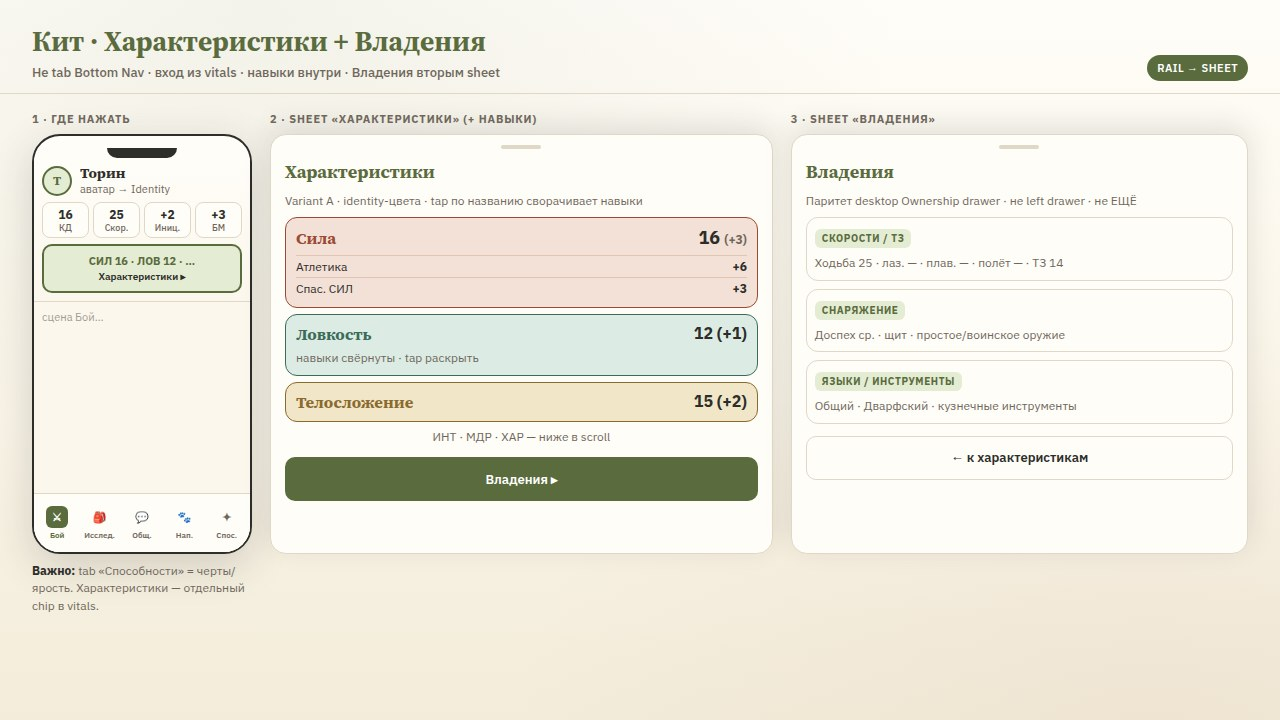
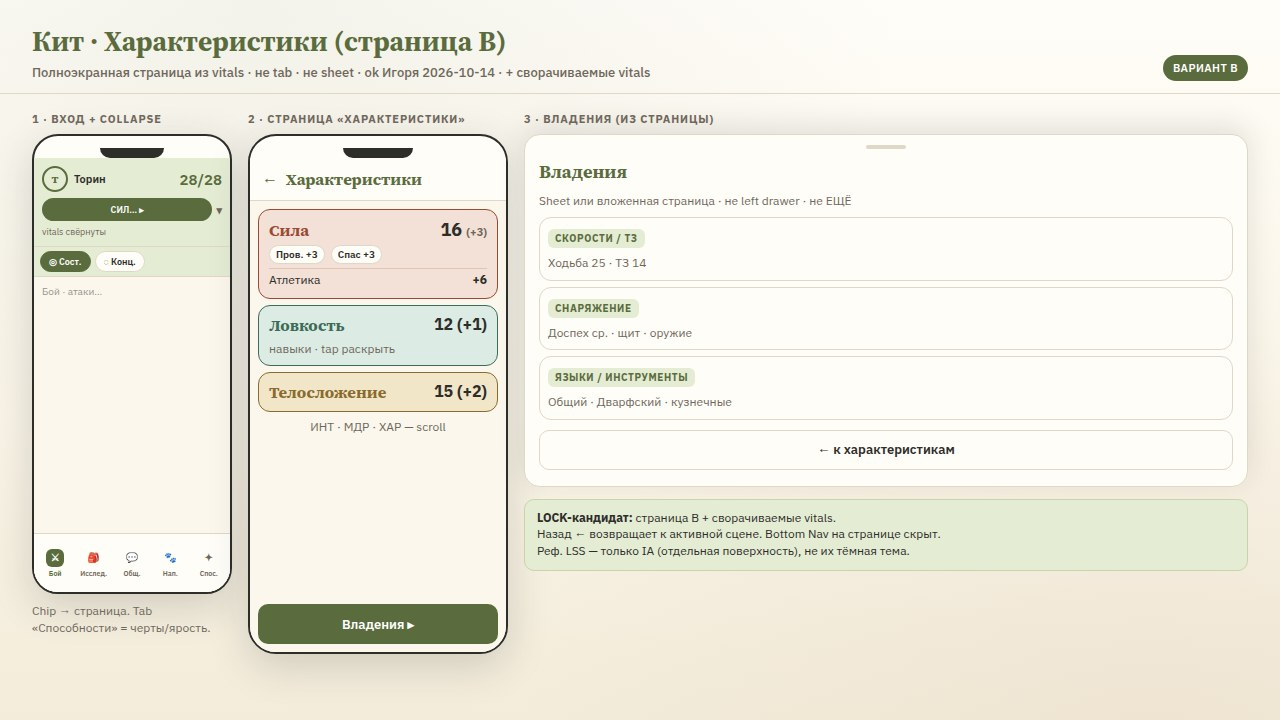
docs(mobile-kit): LOCK path B — abilities page + collapsible vitals
Characteristics open as a full-screen page from the vitals chip (not a
sheet/tab). Vitals support Свернуть ▴ / expand like LSS IA, Folia chrome.

diff --git a/docs/ui-kit-mobile/boards/_render/boards.html b/docs/ui-kit-mobile/boards/_render/boards.html
@@ -305,8 +305,8 @@
       <div class="col" style="flex:1.2">
         <p class="sec-label">D · Shell телефона (одна сцена)</p>
         <div class="callout" style="margin-bottom:12px">
-          <strong>Слои:</strong> MobileVitalsBar → HotStrip → Scene (одна) → Bottom Scene Nav.<br/>
-          Табы = desktop после drop ЕЩЁ: Бой · Исследование · Общение · Напарники · Способности. Сцены «ЕЩЁ» нет.
+          <strong>Слои:</strong> MobileVitalsBar (сворачивается) → HotStrip → Scene (одна) → Bottom Scene Nav.<br/>
+          Табы = desktop после drop ЕЩЁ. Характеристики = <strong>страница B</strong> из vitals. Сцены «ЕЩЁ» нет.
         </div>
         <div class="grid-2">
           <div class="card">
@@ -371,6 +371,7 @@
           <div style="margin-top:6px;display:flex;gap:4px">
             <span class="pill on" style="flex:1;justify-content:center;padding:5px 6px;font-size:10px;border-radius:8px">СИЛ… · Характеристики</span>
           </div>
+          <div style="text-align:center;font-size:10px;font-weight:700;color:var(--muted);margin-top:4px;letter-spacing:.04em">▴ Свернуть</div>
         </div>
         <div class="hot">
           <chip class="on">◎ Состояния</chip>
@@ -383,12 +384,11 @@
             <button class="on">Атаки</button>
             <button>Заклинания</button>
           </div>
-          <div class="att" style="min-height:42px;padding:6px 8px"><div><div class="name">Топор дварфа</div><div class="meta">1к8+3 руб.</div></div><div class="hit">+5</div></div>
-          <div class="att" style="min-height:42px;padding:6px 8px"><div><div class="name">Молот</div><div class="meta">1к10+3 дроб.</div></div><div class="hit">+5</div></div>
+          <div class="att" style="min-height:40px;padding:5px 8px"><div><div class="name">Топор дварфа</div><div class="meta">1к8+3 руб.</div></div><div class="hit">+5</div></div>
           <div style="font-size:10px;font-weight:700;letter-spacing:.06em;text-transform:uppercase;color:var(--muted);margin:2px 2px 0;display:flex;justify-content:space-between;flex-shrink:0">
             <span>Расходники</span><span style="font-weight:600;text-transform:none;letter-spacing:0">избр. 1/3</span>
           </div>
-          <div class="att" style="min-height:42px;padding:6px 8px;flex-shrink:0;border-color:var(--accent)"><div><div class="name">★ Зелье лечения</div><div class="meta">потратить · x2</div></div><div class="hit" style="background:var(--accent-soft);color:var(--ink)">−1</div></div>
+          <div class="att" style="min-height:40px;padding:5px 8px;flex-shrink:0;border-color:var(--accent)"><div><div class="name">★ Зелье лечения</div><div class="meta">потратить · x2</div></div><div class="hit" style="background:var(--accent-soft);color:var(--ink)">−1</div></div>
         </div>
         <div class="bnav">
           <div class="tab on"><div class="ico">⚔</div>Бой</div>
@@ -406,19 +406,21 @@
           <li style="margin-bottom:8px"><strong>Одна сцена</strong> — никогда не стек всех панелей Wave A.</li>
           <li style="margin-bottom:8px"><strong>Bottom Nav</strong> — имена как desktop ModeTab; short label под иконкой ок.</li>
           <li style="margin-bottom:8px"><strong>HP</strong> — крупнейший tap; pad = bottom sheet.</li>
-          <li style="margin-bottom:8px"><strong>Монеты / Отдых</strong> — в vitals (паритет header).</li>
-          <li style="margin-bottom:8px"><strong>HotStrip</strong> — состояния · концентрация · пипы ресурсов.</li>
-          <li style="margin-bottom:8px"><strong>Default tab</strong> при открытии листа — Бой (time-to-attack).</li>
-          <li style="margin-bottom:8px"><strong>Характеристики</strong> — chip в vitals → sheet (не tab «Способности»).</li>
+          <li style="margin-bottom:8px"><strong>Свернуть vitals</strong> — ▴ → compact (who · HP · chip · ▾); больше места сцене.</li>
+          <li style="margin-bottom:8px"><strong>Характеристики</strong> — chip → <strong>полноэкранная страница</strong> (B), не sheet / не tab.</li>
+          <li style="margin-bottom:8px"><strong>HotStrip</strong> — состояния · концентрация · пипы; остаётся при collapse.</li>
           <li><strong>Расходники</strong> — блок под атаками в Бою (★ из Исследования, до 3).</li>
         </ol>
       </div>
+      <div class="callout" style="margin-bottom:12px">
+        <strong>Collapsed strip:</strong> Т · Торин · <b>28/28</b> · СИЛ… · ▾ — pads HP/монеты/отдых всё ещё доступны.
+      </div>
       <div class="callout">
-        <strong>Не делать:</strong> left drawer владений · center-modal pads · возврат select «Панель» · путать tab «Способности» с характеристиками · прятать расходники боя.
+        <strong>Не делать:</strong> left drawer владений · путать tab «Способности» с характеристиками · прятать расходники · 6-й tab ЕЩЁ.
       </div>
       <div style="margin-top:14px" class="card">
         <p class="sec-label">Z-слои</p>
-        <p class="note" style="margin:0">vitals sticky (40) → scene scroll → nav (50) → sheet (60)</p>
+        <p class="note" style="margin:0">vitals sticky (40) → scene scroll → nav (50) → sheet (60) · страница Характеристики поверх сцены</p>
       </div>
     </div>
   </div>
@@ -455,23 +457,34 @@
             <tr style="border-bottom:1px solid var(--line)"><td style="padding:6px 4px;font-weight:600">Отдых</td><td style="padding:6px 4px">→ Rest sheet</td></tr>
             <tr style="border-bottom:1px solid var(--line)"><td style="padding:6px 4px;font-weight:600">Death</td><td style="padding:6px 4px">только HP≤0 · opaque + череп</td></tr>
             <tr style="border-bottom:1px solid var(--line)"><td style="padding:6px 4px;font-weight:600">XP</td><td style="padding:6px 4px">полоска или ⋯ → sheet</td></tr>
-            <tr><td style="padding:6px 4px;font-weight:600">Характеристики</td><td style="padding:6px 4px">chip «СИЛ… · Характеристики» → sheet + навыки; оттуда «Владения ▸»</td></tr>
+            <tr style="border-bottom:1px solid var(--line)"><td style="padding:6px 4px;font-weight:600">Характеристики</td><td style="padding:6px 4px">chip → <strong>страница</strong> (вариант B) + навыки → Владения</td></tr>
+            <tr><td style="padding:6px 4px;font-weight:600">Свернуть</td><td style="padding:6px 4px">▴ → compact strip; ▾ развернуть</td></tr>
           </table>
         </div>
       </div>
       <div class="col">
-        <p class="sec-label">C · HotStrip</p>
+        <p class="sec-label">C · HotStrip + collapse</p>
         <div class="card" style="margin-bottom:12px">
           <div class="hot" style="border:none;border-radius:8px;margin:-4px">
             <chip class="on">◎ Состояния</chip>
             <chip>◌ Концентрация</chip>
             <chip>★ Ресурс</chip>
           </div>
-          <p class="note" style="margin:10px 0 0">Отдых <strong>не</strong> дублировать здесь — он в vitals (как header desktop после Wave A).</p>
+          <p class="note" style="margin:10px 0 0">HotStrip <strong>остаётся</strong> при свёрнутых vitals. Отдых не дублировать здесь.</p>
+        </div>
+        <div class="card" style="margin-bottom:12px;padding:10px;background:var(--accent-soft);border-color:#c9d5a8">
+          <div class="tag">Collapsed</div>
+          <div style="display:flex;align-items:center;gap:8px;font-size:12px;font-weight:600">
+            <span class="avatar" style="width:28px;height:28px;font-size:11px">Т</span>
+            <span>Торин</span>
+            <span style="color:var(--accent);font-size:16px">28/28</span>
+            <span class="pill on" style="padding:3px 8px;font-size:10px">СИЛ…</span>
+            <span style="margin-left:auto;color:var(--muted)">▾</span>
+          </div>
         </div>
         <p class="sec-label">D · Бывшее ЕЩЁ — разнесено</p>
         <div class="card">
-          <p class="note" style="margin:0">Состояния → HotStrip · Identity → аватар · Attunement → Исследование · Характеристики/Владения → sheet из vitals. <strong>Сцены ЕЩЁ нет.</strong></p>
+          <p class="note" style="margin:0">Состояния → HotStrip · Identity → аватар · Attunement → Исследование · Характеристики → <strong>страница</strong> из vitals. <strong>Сцены ЕЩЁ нет.</strong></p>
         </div>
       </div>
     </div>
@@ -702,105 +715,114 @@
   </div>
 </section>
 
-<!-- ========== ABILITIES + OWNERSHIP ========== -->
+<!-- ========== ABILITIES + OWNERSHIP (вариант B) ========== -->
 <section class="board" id="abilities" data-file="dvarf-mobile-kit-abilities.jpg">
   <div class="hdr">
     <div>
-      <h1>Кит · Характеристики + Владения</h1>
-      <p class="sub">Не tab Bottom Nav · вход из vitals · навыки внутри · Владения вторым sheet</p>
+      <h1>Кит · Характеристики (страница B)</h1>
+      <p class="sub">Полноэкранная страница из vitals · не tab · не sheet · ok Игоря 2026-10-14 · + сворачиваемые vitals</p>
     </div>
-    <div class="badge">RAIL → SHEET</div>
+    <div class="badge">ВАРИАНТ B</div>
   </div>
-  <div class="body" style="display:flex;gap:18px;align-items:flex-start">
-    <!-- Step 1: entry -->
-    <div style="width:220px;flex-shrink:0">
-      <p class="sec-label">1 · Где нажать</p>
-      <div class="phone" style="width:220px;height:420px;border-radius:28px">
-        <div class="phone-notch"><span style="width:70px"></span></div>
+  <div class="body" style="display:flex;gap:16px;align-items:flex-start">
+    <!-- Entry + collapsed -->
+    <div style="width:200px;flex-shrink:0">
+      <p class="sec-label">1 · Вход + collapse</p>
+      <div class="phone" style="width:200px;height:460px;border-radius:26px">
+        <div class="phone-notch"><span style="width:64px"></span></div>
         <div class="phone-body">
-          <div class="vitals" style="padding:8px">
-            <div class="who">
-              <div class="avatar" style="width:30px;height:30px;font-size:12px">Т</div>
-              <div>
-                <div class="who-name" style="font-size:14px">Торин</div>
-                <div class="who-meta">аватар → Identity</div>
+          <div style="padding:8px;border-bottom:1px solid var(--line);background:var(--accent-soft)">
+            <div style="display:flex;align-items:center;gap:6px;font-size:11px;font-weight:600">
+              <span class="avatar" style="width:26px;height:26px;font-size:10px">Т</span>
+              <span>Торин</span>
+              <span style="color:var(--accent);font-size:15px;margin-left:auto">28/28</span>
+            </div>
+            <div style="display:flex;gap:4px;margin-top:6px;align-items:center">
+              <span class="pill on" style="flex:1;justify-content:center;padding:4px;font-size:9px;border:2px solid var(--accent)">СИЛ… ▸</span>
+              <span style="font-size:11px;font-weight:700;color:var(--muted)">▾</span>
+            </div>
+            <div class="note" style="margin:4px 0 0;font-size:9px">vitals свёрнуты</div>
+          </div>
+          <div class="hot" style="padding:4px 6px">
+            <chip class="on" style="font-size:9px">◎ Сост.</chip>
+            <chip style="font-size:9px">◌ Конц.</chip>
+          </div>
+          <div class="scene" style="opacity:.5;font-size:10px">Бой · атаки…</div>
+          <div class="bnav">
+            <div class="tab on" style="font-size:7px"><div class="ico" style="font-size:10px;width:18px;height:18px">⚔</div>Бой</div>
+            <div class="tab" style="font-size:7px"><div class="ico" style="font-size:10px;width:18px;height:18px">🎒</div>Исслед.</div>
+            <div class="tab" style="font-size:7px"><div class="ico" style="font-size:10px;width:18px;height:18px">💬</div>Общ.</div>
+            <div class="tab" style="font-size:7px"><div class="ico" style="font-size:10px;width:18px;height:18px">🐾</div>Нап.</div>
+            <div class="tab" style="font-size:7px"><div class="ico" style="font-size:10px;width:18px;height:18px">✦</div>Спос.</div>
+          </div>
+        </div>
+      </div>
+      <p class="note" style="margin:8px 0 0">Chip → страница. Tab «Способности» = черты/ярость.</p>
+    </div>
+
+    <!-- Full page abilities -->
+    <div style="width:260px;flex-shrink:0">
+      <p class="sec-label">2 · Страница «Характеристики»</p>
+      <div class="phone" style="width:260px;height:520px;border-radius:28px">
+        <div class="phone-notch"><span style="width:70px"></span></div>
+        <div class="phone-body" style="background:var(--panel)">
+          <div style="padding:10px 12px;border-bottom:1px solid var(--line);background:var(--card);display:flex;align-items:center;gap:8px">
+            <span style="font-weight:700;color:var(--accent)">←</span>
+            <div style="font-family:var(--font-display);font-weight:700;color:var(--accent);font-size:16px">Характеристики</div>
+          </div>
+          <div style="flex:1;overflow:hidden;padding:8px;display:flex;flex-direction:column;gap:6px">
+            <div class="card" style="padding:8px 10px;border-color:#9a4a32;background:#f3e0d6">
+              <div style="display:flex;justify-content:space-between;align-items:baseline">
+                <strong style="font-family:var(--font-display);color:#9a4a32">Сила</strong>
+                <span style="font-weight:700;font-size:18px">16 <span style="font-size:11px;color:var(--muted)">(+3)</span></span>
+              </div>
+              <div style="margin-top:4px;font-size:11px;display:flex;gap:6px">
+                <span class="pill" style="padding:2px 6px;font-size:10px">Пров. +3</span>
+                <span class="pill" style="padding:2px 6px;font-size:10px">Спас +3</span>
+              </div>
+              <div style="margin-top:4px;font-size:12px">
+                <div style="display:flex;justify-content:space-between;padding:3px 0;border-top:1px solid #e0c4b4"><span>Атлетика</span><strong>+6</strong></div>
               </div>
             </div>
-            <div class="vital-row">
-              <div class="vital"><div class="v" style="font-size:12px">16</div><div class="l">КД</div></div>
-              <div class="vital"><div class="v" style="font-size:12px">25</div><div class="l">Скор.</div></div>
-              <div class="vital"><div class="v" style="font-size:12px">+2</div><div class="l">Иниц.</div></div>
-              <div class="vital"><div class="v" style="font-size:12px">+3</div><div class="l">БМ</div></div>
+            <div class="card" style="padding:8px 10px;border-color:#3d6b5a;background:#dcece4">
+              <div style="display:flex;justify-content:space-between"><strong style="font-family:var(--font-display);color:#3d6b5a">Ловкость</strong><span style="font-weight:700">12 (+1)</span></div>
+              <div class="note" style="margin:4px 0 0">навыки · tap раскрыть</div>
             </div>
-            <div style="margin-top:4px;border:2px solid var(--accent);border-radius:10px;padding:8px;background:var(--accent-soft);text-align:center">
-              <div style="font-size:11px;font-weight:700;color:var(--accent)">СИЛ 16 · ЛОВ 12 · …</div>
-              <div style="font-size:10px;font-weight:600;margin-top:2px">Характеристики ▸</div>
+            <div class="card" style="padding:8px 10px;border-color:#8a6a2f;background:#f1e6c8">
+              <div style="display:flex;justify-content:space-between"><strong style="font-family:var(--font-display);color:#8a6a2f">Телосложение</strong><span style="font-weight:700">15 (+2)</span></div>
             </div>
-          </div>
-          <div class="scene" style="opacity:.45;font-size:11px;padding:8px">сцена Бой…</div>
-          <div class="bnav">
-            <div class="tab on"><div class="ico" style="font-size:11px">⚔</div>Бой</div>
-            <div class="tab"><div class="ico" style="font-size:11px">🎒</div>Исслед.</div>
-            <div class="tab"><div class="ico" style="font-size:11px">💬</div>Общ.</div>
-            <div class="tab"><div class="ico" style="font-size:11px">🐾</div>Нап.</div>
-            <div class="tab"><div class="ico" style="font-size:11px">✦</div>Спос.</div>
+            <div class="note" style="text-align:center;margin:0">ИНТ · МДР · ХАР — scroll</div>
+            <span class="btn btn-primary" style="width:100%;min-height:40px;margin-top:auto">Владения ▸</span>
           </div>
         </div>
       </div>
-      <p class="note" style="margin:8px 0 0"><strong>Важно:</strong> tab «Способности» = черты/ярость. Характеристики — отдельный chip в vitals.</p>
     </div>
 
-    <!-- Step 2: abilities sheet -->
-    <div style="flex:1.1;min-width:0">
-      <p class="sec-label">2 · Sheet «Характеристики» (+ навыки)</p>
-      <div class="sheet-demo" style="width:100%;border-radius:16px;min-height:420px">
-        <div class="grab"></div>
-        <h3>Характеристики</h3>
-        <p class="note" style="margin:0 0 8px">Variant A · identity-цвета · tap по названию сворачивает навыки</p>
-        <div style="display:flex;flex-direction:column;gap:6px">
-          <div class="card" style="padding:8px 10px;border-color:#9a4a32;background:#f3e0d6">
-            <div style="display:flex;justify-content:space-between;align-items:baseline">
-              <strong style="font-family:var(--font-display);color:#9a4a32">Сила</strong>
-              <span style="font-weight:700;font-size:18px">16 <span style="font-size:12px;color:var(--muted)">(+3)</span></span>
-            </div>
-            <div style="margin-top:6px;font-size:12px">
-              <div style="display:flex;justify-content:space-between;padding:3px 0;border-top:1px solid #e0c4b4"><span>Атлетика</span><strong>+6</strong></div>
-              <div style="display:flex;justify-content:space-between;padding:3px 0;border-top:1px solid #e0c4b4"><span>Спас. СИЛ</span><strong>+3</strong></div>
-            </div>
-          </div>
-          <div class="card" style="padding:8px 10px;border-color:#3d6b5a;background:#dcece4">
-            <div style="display:flex;justify-content:space-between"><strong style="font-family:var(--font-display);color:#3d6b5a">Ловкость</strong><span style="font-weight:700">12 (+1)</span></div>
-            <div class="note" style="margin:4px 0 0">навыки свёрнуты · tap раскрыть</div>
-          </div>
-          <div class="card" style="padding:8px 10px;border-color:#8a6a2f;background:#f1e6c8">
-            <div style="display:flex;justify-content:space-between"><strong style="font-family:var(--font-display);color:#8a6a2f">Телосложение</strong><span style="font-weight:700">15 (+2)</span></div>
-          </div>
-          <div class="note" style="text-align:center">ИНТ · МДР · ХАР — ниже в scroll</div>
-        </div>
-        <span class="btn btn-primary" style="width:100%;margin-top:12px">Владения ▸</span>
-      </div>
-    </div>
-
-    <!-- Step 3: ownership -->
+    <!-- Ownership + rules -->
     <div style="flex:1;min-width:0">
-      <p class="sec-label">3 · Sheet «Владения»</p>
-      <div class="sheet-demo" style="width:100%;border-radius:16px;min-height:420px">
+      <p class="sec-label">3 · Владения (из страницы)</p>
+      <div class="sheet-demo" style="width:100%;border-radius:16px;margin-bottom:12px">
         <div class="grab"></div>
         <h3>Владения</h3>
-        <p class="note" style="margin:0 0 8px">Паритет desktop Ownership drawer · не left drawer · не ЕЩЁ</p>
-        <div class="card" style="margin-bottom:8px;padding:8px">
+        <p class="note" style="margin:0 0 8px">Sheet или вложенная страница · не left drawer · не ЕЩЁ</p>
+        <div class="card" style="margin-bottom:6px;padding:8px">
           <div class="tag">Скорости / ТЗ</div>
-          <div class="note" style="margin:0">Ходьба 25 · лаз. — · плав. — · полёт — · ТЗ 14</div>
+          <div class="note" style="margin:0">Ходьба 25 · ТЗ 14</div>
         </div>
-        <div class="card" style="margin-bottom:8px;padding:8px">
+        <div class="card" style="margin-bottom:6px;padding:8px">
           <div class="tag">Снаряжение</div>
-          <div class="note" style="margin:0">Доспех ср. · щит · простое/воинское оружие</div>
+          <div class="note" style="margin:0">Доспех ср. · щит · оружие</div>
         </div>
         <div class="card" style="padding:8px">
           <div class="tag">Языки / инструменты</div>
-          <div class="note" style="margin:0">Общий · Дварфский · кузнечные инструменты</div>
+          <div class="note" style="margin:0">Общий · Дварфский · кузнечные</div>
         </div>
-        <span class="btn btn-ghost" style="width:100%;margin-top:12px">← к характеристикам</span>
+        <span class="btn btn-ghost" style="width:100%;margin-top:10px;min-height:40px">← к характеристикам</span>
+      </div>
+      <div class="callout">
+        <strong>LOCK-кандидат:</strong> страница B + сворачиваемые vitals.<br/>
+        Назад ← возвращает к активной сцене. Bottom Nav на странице скрыт.<br/>
+        Реф. LSS — только IA (отдельная поверхность), не их тёмная тема.
       </div>
     </div>
   </div>

diff --git a/docs/ui-kit-mobile/README.md b/docs/ui-kit-mobile/README.md
@@ -116,7 +116,11 @@ Safe area: `padding-bottom: max(12px, env(safe-area-inset-bottom))` на nav и 
 | Монеты | icon → CoinPad sheet |
 | Отдых | icon → Rest sheet |
 | XP | компактная полоска или «⋯ vitals» → sheet (не выкидывать) |
-| Концентрация | chip; clear + при уроне из HpPad — «Удержал / Сорвалось» |
+| Характеристики | chip «СИЛ…» → **полноэкранная страница** (вариант B), не bottom sheet |
+| Свернуть | control «Свернуть ▴» — vitals → compact strip (HP + who + ▾); HotStrip остаётся |
+
+**Сворачивание (LOCK-кандидат, ok Игоря 2026-10-14):** как у LSS «Свернуть», но в языке Листвы.  
+Collapsed sticky: аватар/имя · HP · chip Характеристики · ▾ развернуть. Pads (HP/монеты/отдых) доступны и из compact.
 
 **Эволюция кода:** расширить `CombatStickyHeader` до паритета входов Wave A, либо новый `MobileVitalsBar` с теми же callbacks, что `PlayDeskHeader`.
 
@@ -151,8 +155,8 @@ Icons: те же `IconConditions` / `IconConcentration` / `IconPouch`.
 | Состояния | HotStrip → Conditions sheet |
 | Основное / identity | аватар / who → Identity sheet |
 | Настройка (attunement) | Исследование summary → Attunement sheet |
-| Владения | из Характеристик CTA «Владения ▸» → bottom sheet (не left drawer) |
-| Характеристики (rail) | отдельный вход: chip/кнопка в vitals или sheet «Характеристики» — **не** 6-й tab «ЕЩЁ» |
+| Владения | из страницы Характеристики CTA «Владения ▸» → sheet или вложенная страница (не left drawer) |
+| Характеристики (rail) | chip в vitals → **полноэкранная страница** (вариант B, реф. LSS) — **не** 6-й tab «ЕЩЁ», **не** bottom sheet |
 
 Короткие подписи под иконкой ок (`Исслед.` / `Способн.`); `aria-label` = полный label.
 
@@ -162,7 +166,7 @@ Icons: те же `IconConditions` / `IconConcentration` / `IconPouch`.
 - Tab active = solid accent; иконка + короткий label.
 - Высота ≥ `--tap-comfy` + safe-area.
 - **Не** возвращать tab/сцену «ЕЩЁ».
-- Характеристики **не** permanent top rail: sheet/вход из vitals (паритет desktop left rail без 6-го режима).
+- Характеристики **не** permanent top rail и **не** tab: полноэкранная страница из vitals (паритет desktop left rail без 6-го режима).
 
 Рекомендуемый default tab при открытии листа: **Бой** (time-to-attack).
 
@@ -175,10 +179,17 @@ Icons: те же `IconConditions` / `IconConcentration` / `IconPouch`.
 | Rest | Отдых | кости / короткий / длинный |
 | Conditions | HotStrip | exhaustion + on-character + quick pick |
 | Cast | Каст | upcast / источник / conc swap |
-| Ownership | из Характеристик «Владения ▸» | скорости/ТЗ · снаряжение · языки/инструменты |
+| Ownership | из страницы Характеристики «Владения ▸» | скорости/ТЗ · снаряжение · языки/инструменты |
 | Identity | аватар / who | как desktop IdentityDialog |
 | Attunement | summary инвентаря | слоты 0–3 |
-| Abilities | vitals → sheet Характеристики | AbilitySkillsColumn full |
+
+### 3.5b Полноэкранные страницы (не sheet, не tab)
+
+| Страница | Триггер | Содержимое |
+|----------|---------|------------|
+| Характеристики | vitals chip «СИЛ…» | AbilitySkillsColumn full · назад к сцене · «Владения ▸» |
+
+Правила страницы: свой header «← Характеристики»; Bottom Nav **скрыт** или приглушён (фокус на rail); закрытие = назад к активной сцене (Бой и т.д.).
 
 CSS: уже есть задел `@media (max-width: 640px)` → `align-items: flex-end` у dialog. Унифицировать на `<960` для play pads.
 
@@ -222,8 +233,9 @@ Compact-компоненты десктопа (`PlayDesk*Compact`) **можно*
 | §2g Texts | Общение |
 | §2h Features | Способности |
 | §2i Companions | Напарники |
-| §2j Ownership | Характеристики → «Владения ▸» sheet (**не** left drawer, **не** ЕЩЁ) |
+| §2j Ownership | страница Характеристики → «Владения ▸» (**не** left drawer, **не** ЕЩЁ) |
 | §2k Identity | аватар / who line (сцена ЕЩЁ нет) |
+| Ability rail | vitals → **страница** Характеристики (вариант B) |
 | §2l Hot-bar + conc | HotStrip + HpPad conc-on-damage |
 | §2m Character list | list density (см. §7) |
 

diff --git a/docs/ui-kit-mobile/PROSTO.md b/docs/ui-kit-mobile/PROSTO.md
@@ -31,10 +31,11 @@
 
 Представь пульт в одной руке:
 
-1. **Сверху** — жив ли герой (хиты, броня, скорость) и быстрый доступ к отдыху/монетам.
+1. **Сверху** — жив ли герой (хиты, броня, скорость) и быстрый доступ к отдыху/монетам. Шапку можно **свернуть**, чтобы больше места под список.
 2. **Посередине** — **одна** нужная сейчас зона (атаки, или рюкзак, или тексты).
 3. **Снизу** — вкладки как на десктопе после Wave A: Бой · Исследование · Общение · Напарники · Способности.  
-   Сцены **«ЕЩЁ» нет** — основное/состояния/владения уже разнесены (аватар, hot-strip, sheet характеристик).
+   Сцены **«ЕЩЁ» нет** — основное/состояния/владения уже разнесены (аватар, hot-strip, страница характеристик).
+4. **Характеристики** — отдельная полноэкранная страница из chip в шапке (не вкладка, не маленький sheet).
 
 Отдых, урон, каст, состояния — **выезжают снизу** (как в нормальных мобильных приложениях), а не крошечным окошком по центру.
 

diff --git a/docs/ui-kit-mobile/PARITY.md b/docs/ui-kit-mobile/PARITY.md
@@ -30,8 +30,9 @@
 | Умения / ресурсы spend | 🟡 | Tab Способности | P1 |
 | Напарники CRUD | 🟡 | Tab Напарники | P1 |
 | Companion dock | ❌ | optional strip P2 | P2 |
-| Ability rail + навыки | 🟡 всегда сверху | vitals → sheet Характеристики (без tab ЕЩЁ) | P0 |
-| Владения drawer | ❌ CTA desk-only | из Характеристик → sheet | P0 |
+| Ability rail + навыки | 🟡 всегда сверху | vitals chip → **страница** Характеристики (вариант B; без tab ЕЩЁ) | P0 |
+| Сворачиваемые vitals | ❌ | «Свернуть ▴» → compact strip; ▾ развернуть | P0 |
+| Владения drawer | ❌ CTA desk-only | из страницы Характеристики → sheet/вложенная | P0 |
 | Identity / аватар / классы | 🟡 в стеке | who/avatar → sheet | P0 |
 | Skill strips + преим/помеха | ❌ | P1 в Бою / Характеристиках | P1 |
 | Split spells | ❌ N/A | segmented, не split | P1 |

diff --git a/docs/ui-kit-mobile/boards/README.md b/docs/ui-kit-mobile/boards/README.md
@@ -14,7 +14,7 @@
 | `dvarf-mobile-kit-sheets.jpg` | Bottom sheets: HP / Rest / Conditions / Cast |
 | `dvarf-mobile-kit-scenes.jpg` | Сцены Бой · Исследование · Общение · … |
 | `dvarf-mobile-kit-identity.jpg` | Аватар/who → sheet «Основное» (паритет IdentityDialog) |
-| `dvarf-mobile-kit-abilities.jpg` | Вход из vitals → sheet Характеристики (+навыки) → Владения |
+| `dvarf-mobile-kit-abilities.jpg` | Вариант B: страница Характеристики + collapse vitals → Владения |
 | `dvarf-mobile-kit-create-lobby.jpg` | Create StepRail + Lobby Hero на телефоне |
 
 Табы: **Бой · Исследование · Общение · Напарники · Способности** (desktop после drop ЕЩЁ).  

diff --git a/docs/ui-kit-mobile/VIEW.md b/docs/ui-kit-mobile/VIEW.md
@@ -17,7 +17,7 @@
 | [`sheets`](boards/dvarf-mobile-kit-sheets.jpg) | Bottom sheets: HP / Rest / Conditions / Cast |
 | [`scenes`](boards/dvarf-mobile-kit-scenes.jpg) | 5 сцен + sheet Характеристики |
 | [`identity`](boards/dvarf-mobile-kit-identity.jpg) | аватар/who → Основное (Identity) |
-| [`abilities`](boards/dvarf-mobile-kit-abilities.jpg) | vitals → Характеристики (+навыки) → Владения |
+| [`abilities`](boards/dvarf-mobile-kit-abilities.jpg) | вариант B: страница Характеристики + collapse vitals |
 | [`create-lobby`](boards/dvarf-mobile-kit-create-lobby.jpg) | Create StepRail + Lobby Hero |
 
 Код мобилки — **только после ok** на эти картинки.
